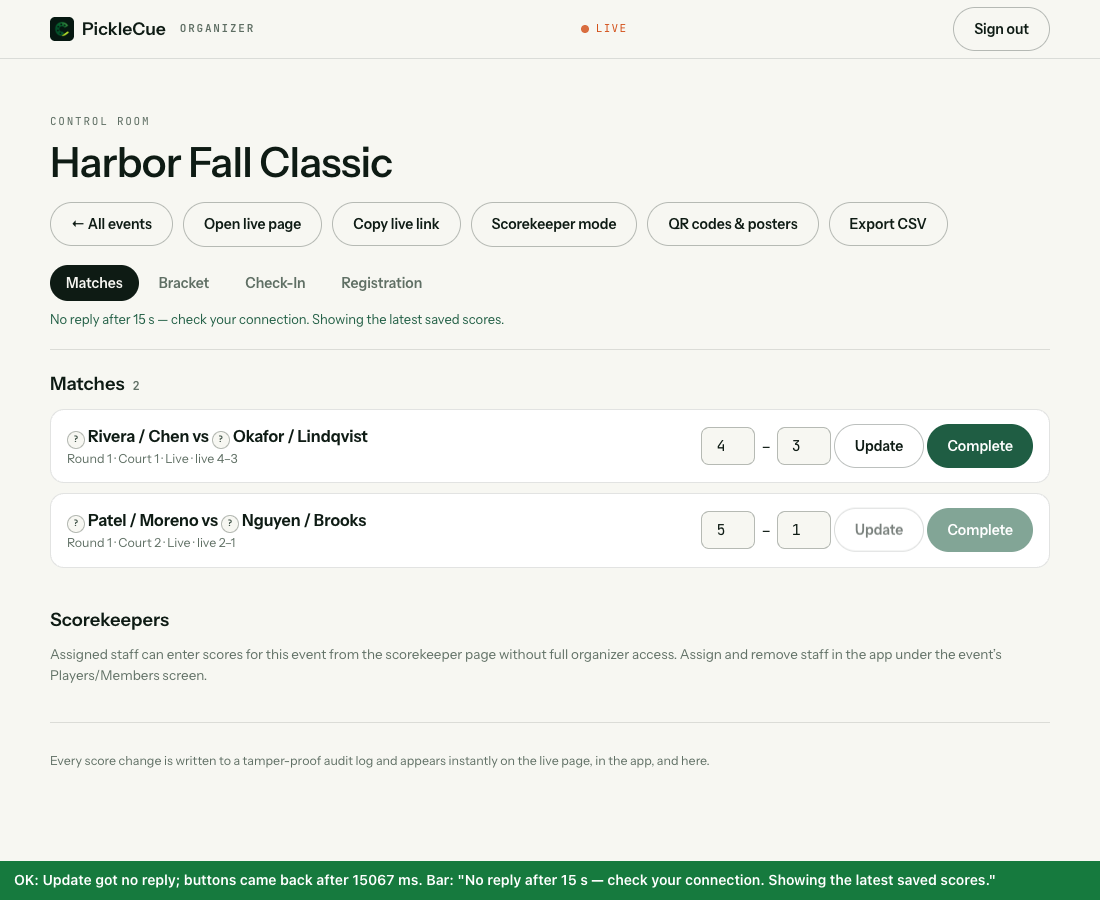
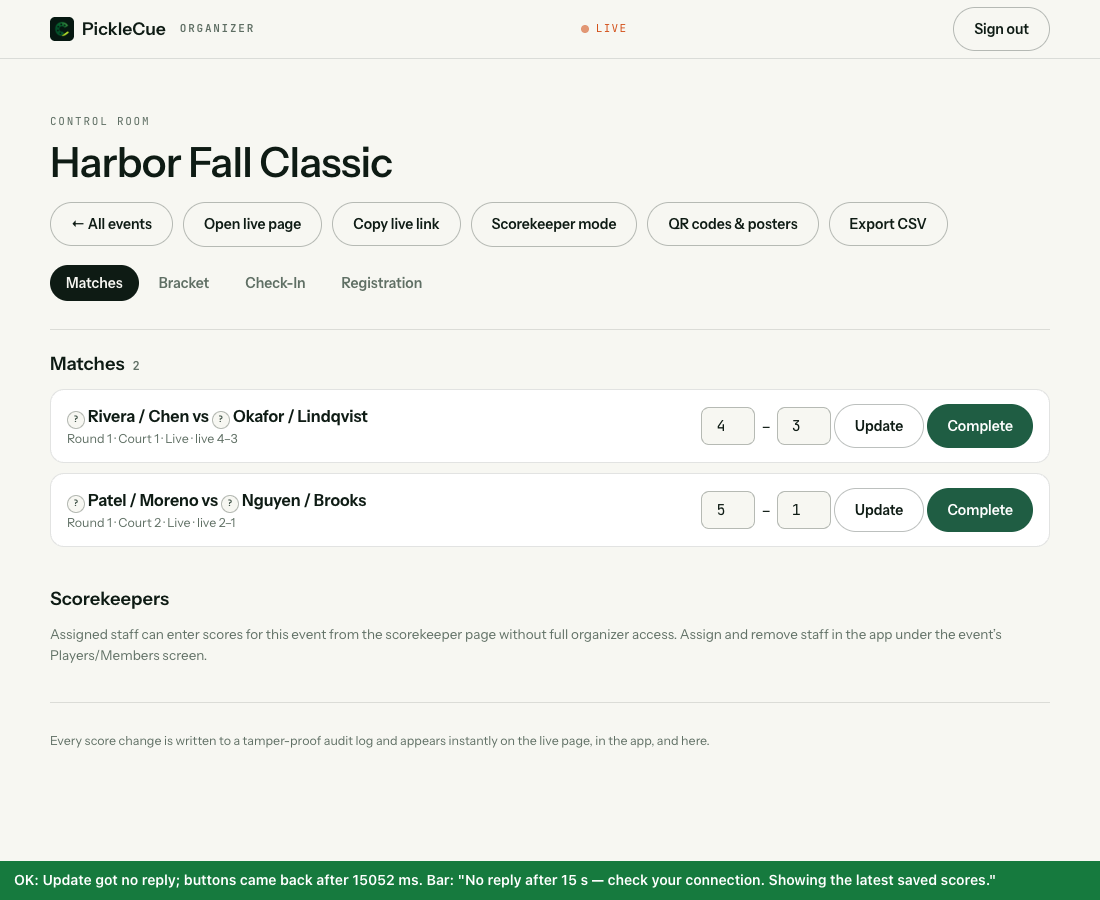
fix(organizer): the 15 s reply timer starts after the confirm/prompt dialog (review P2) [skip ci]
fn() (which asks confirm()/prompt() for Complete/Correct) now runs before
the timer is armed, so time spent in the dialog can't be counted as a
missing reply. New test case 3 (16 s in the confirm, 30 ms reply): passes;
note headless Chrome did not reproduce the old behaviour either (it passed
on the previous commit too), so this is a defensive fix for browsers that
fire overdue timers after a modal dialog.
tests/organizer-action-timeout.test.mjs 6/6, organizer-live-edits all passed.

diff --git a/organizer.html b/organizer.html
@@ -951,8 +951,13 @@
                     Array.prototype.forEach.call(actionButtons(attr, mid), function (x) { x.disabled = true; });
                     var timer;
                     try {
+                        // fn() runs first and synchronously: Complete/Correct
+                        // ask confirm()/prompt() there, and the reply clock
+                        // must not include the time spent in that dialog
+                        // (review P2). Only the request itself is timed.
+                        var req = fn(mid);
                         var done = await Promise.race([
-                            Promise.resolve().then(function () { return fn(mid); }),
+                            Promise.resolve(req),
                             new Promise(function (_, rej) { timer = setTimeout(function () { rej(new ActionTimeout()); }, ACTION_TIMEOUT_MS); }),
                         ]);
                         clearTimeout(timer);
